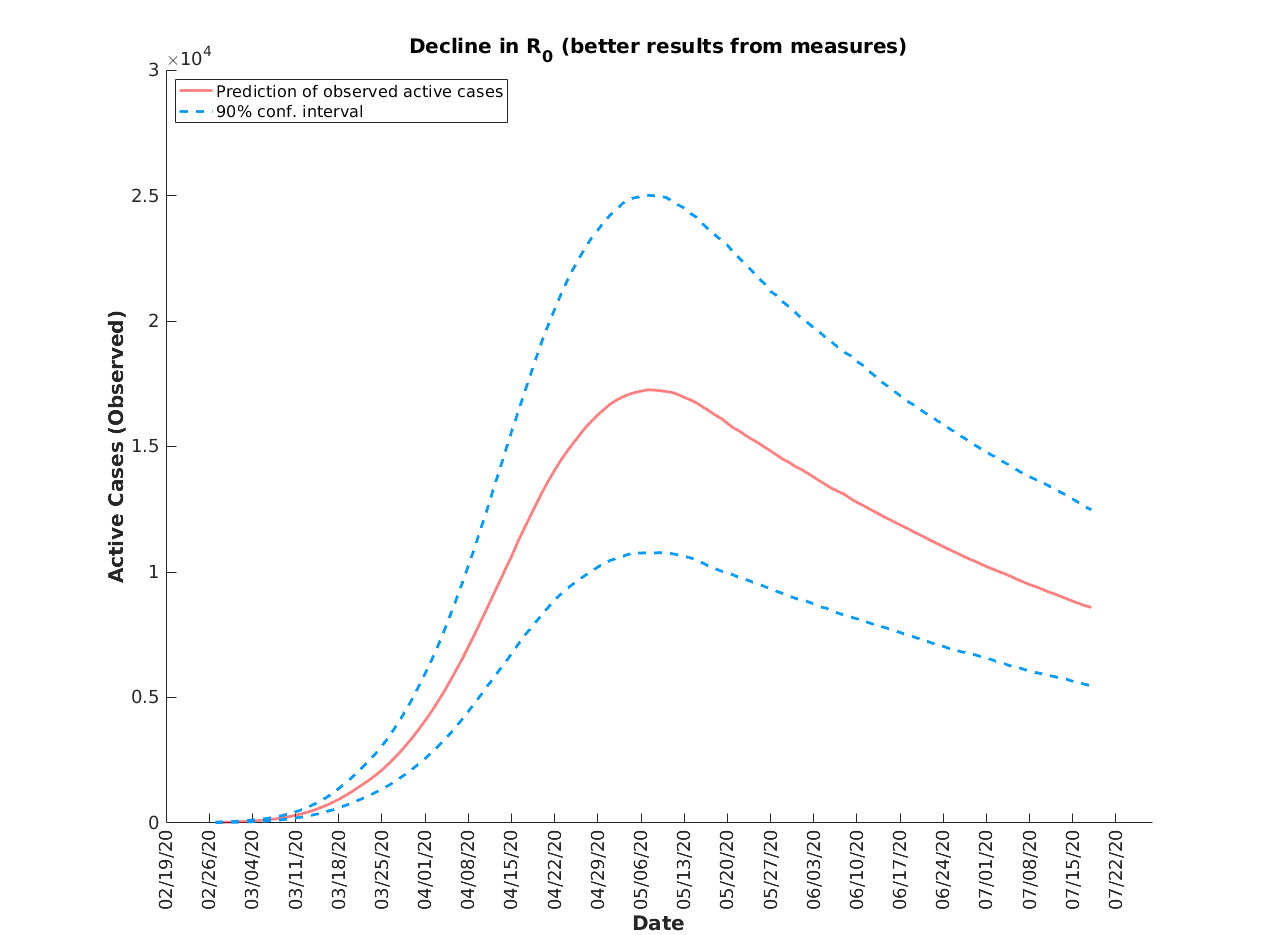
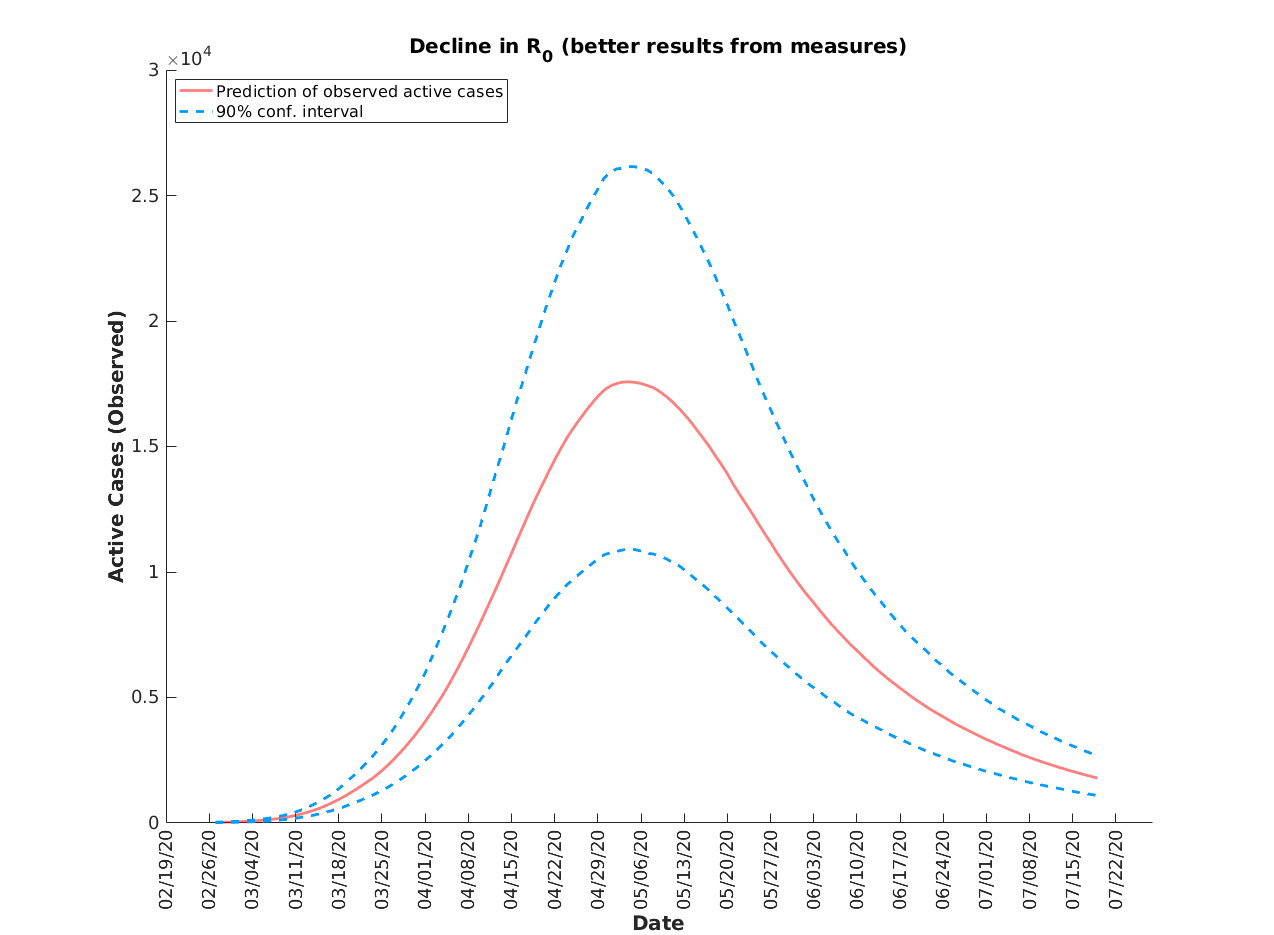
Add files via upload

diff --git a/COVID19 Models/Sweden/COVID19_Sweden.m b/COVID19 Models/Sweden/COVID19_Sweden.m
@@ -106,8 +106,8 @@ NewCases_optimistic = diff(TotalCases_optimistic');
 
 % converts from h period of time to daily period of time
 NewCasesDaily_optimistic = squeeze(sum(reshape(NewCases_optimistic, [2, size(NewCases_optimistic,1)*h, size(NewCases_optimistic,2)])))';
-TotalCasesDaily_optimistic= TotalCases(:, 1:(1/h):T/h);    
-ActiveCasesDaily_optimistic= ActiveCases(:, 1:(1/h):T/h);
+TotalCasesDaily_optimistic= TotalCases_optimistic(:, 1:(1/h):T/h);    
+ActiveCasesDaily_optimistic= ActiveCases_optimistic(:, 1:(1/h):T/h);
 
 % build and save plots
 buildPlots(NewCasesDaily_optimistic, TotalCasesDaily_optimistic, ActiveCasesDaily_optimistic, newcases_hist, dates, horizon, detection_time, ...
@@ -126,8 +126,8 @@ NewCases_pessimistic = diff(TotalCases_pessimistic');
 
 % converts from h period of time to daily period of time
 NewCasesDaily_pessimistic = squeeze(sum(reshape(NewCases_pessimistic, [2, size(NewCases_pessimistic,1)*h, size(NewCases_pessimistic,2)])))';
-TotalCasesDaily_pessimistic= TotalCases(:, 1:(1/h):T/h);    
-ActiveCasesDaily_pessimistic= ActiveCases(:, 1:(1/h):T/h);
+TotalCasesDaily_pessimistic= TotalCases_pessimistic(:, 1:(1/h):T/h);    
+ActiveCasesDaily_pessimistic= ActiveCases_pessimistic(:, 1:(1/h):T/h);
 
 % build and save plots
 buildPlots(NewCasesDaily_pessimistic, TotalCasesDaily_pessimistic, ActiveCasesDaily_pessimistic, newcases_hist, dates, horizon, detection_time, ...
